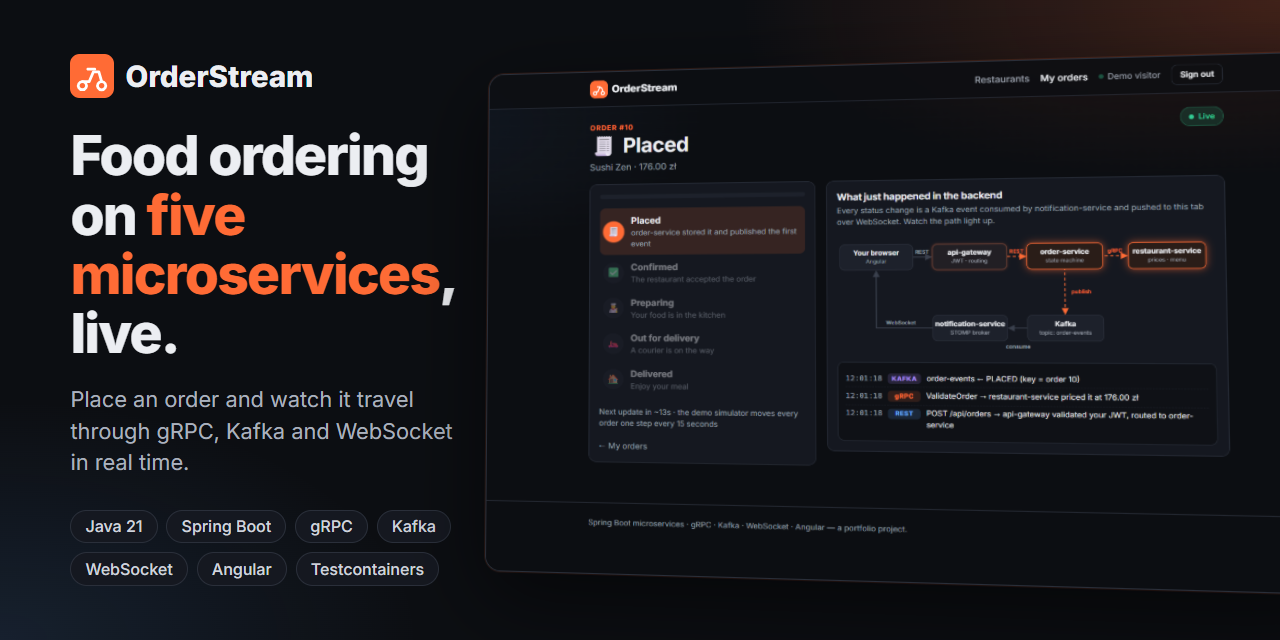
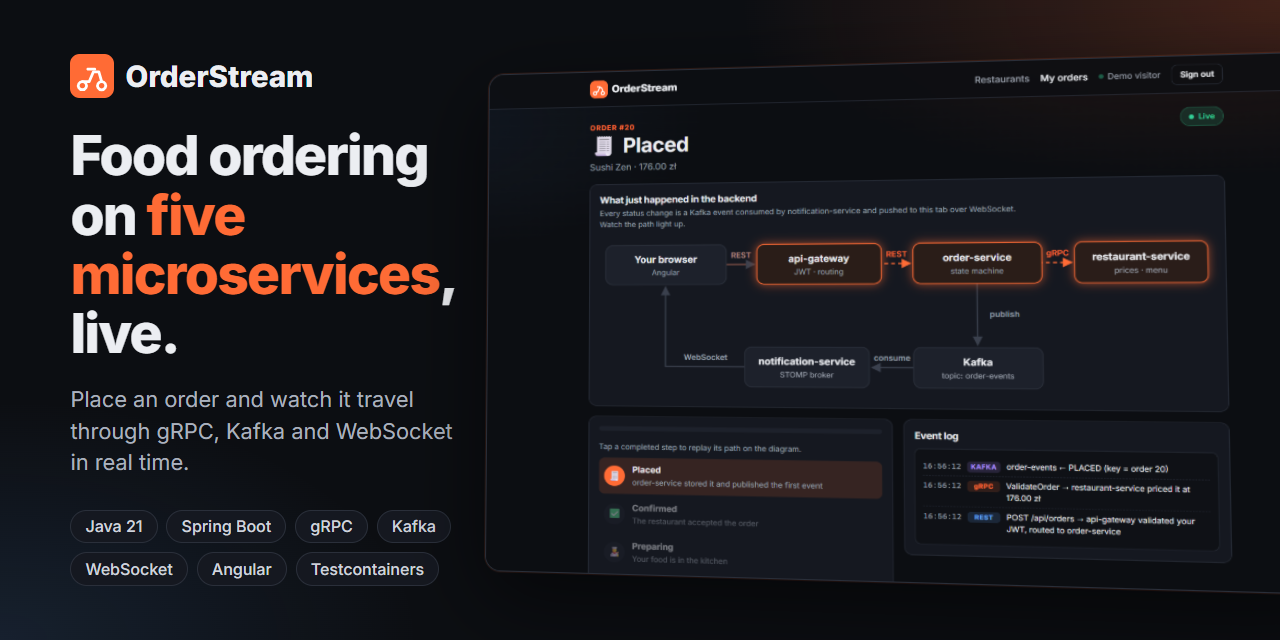
docs: refresh demo GIF and screenshots for the new tracking layout

diff --git a/README.md b/README.md
@@ -24,12 +24,13 @@ A food-ordering system built as five Spring Boot microservices with an Angular f
 
 - **The price comes from gRPC.** When you order, `order-service` calls `restaurant-service` synchronously to validate the dishes and compute the total. The browser never sends a price.
 - **Every status change is a Kafka event.** `order-service` publishes, `notification-service` consumes and pushes it to your tab over WebSocket — the tracking page measures that trip end to end, usually in 10–20 ms.
-- **The backend map lights up as it happens.** The panel next to the order draws the path each event took, so what is normally invisible in a demo is the main thing on screen.
+- **The backend map lights up as it happens.** A full-width diagram above the order draws the path each event took, so what is normally invisible in a demo is the main thing on screen. Tap any completed step to replay its path.
 - **One click to try it.** "Try the demo" creates a throwaway account, so nobody has to fill in a form to see it work.
+- **Works on a phone.** Every page is responsive; below tablet width the diagram switches to a vertical layout instead of shrinking.
 
-| Browsing | Ordering |
-|---|---|
-| ![Home page with restaurants](docs/images/home.png) | ![Menu with a filled cart](docs/images/menu.png) |
+| Browsing | Ordering | On a phone |
+|---|---|---|
+| ![Home page with restaurants](docs/images/home.png) | ![Menu with a filled cart](docs/images/menu.png) | ![The backend diagram in its vertical phone layout, mid-animation](docs/images/phone.png) |
 
 ## Architecture
 
